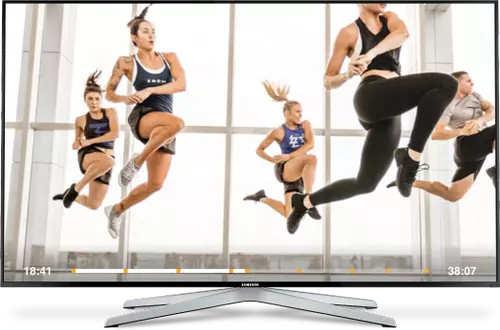
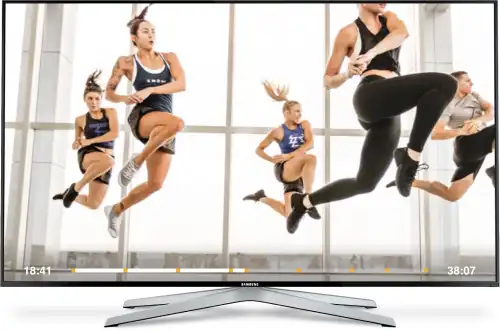
feat: update images les-mills

diff --git a/case-study/les-mills.html b/case-study/les-mills.html
@@ -147,10 +147,9 @@
       </div>
       <div data-w-id="2c214185-edae-2555-cc68-1a40fbe55c68" class="feature-2-row w-row"> 
           <picture class="feature-2-left-column w-col w-col-6">
-            <source media="(max-width: 479px)" width="262px" height="173px" srcset="../images/case-study/les-mills/webp/les-mills-on-your-time-mobile.webp" type="image/webp">
+            <source media="(max-width: 479px)" width="250px" height="173px" srcset="../images/case-study/les-mills/webp/les-mills-on-your-time-mobile.webp 1x, ../images/case-study/les-mills/webp/les-mills-on-your-time-mobile.webp 2x" type="image/webp">
             <source srcset="../images/case-study/les-mills/webp/les-mills-on-your-time.webp" type="image/webp">
-            <source srcset="../images/case-study/les-mills/les-mills-on-your-time-mobile.jpeg" type="image/jpeg">
-            <img loading="lazy" src="../images/case-study/les-mills/les-mills-on-your-time.jpg" alt="Image of Les Mills On Demand streaming video workout. 4 athletes exercising." srcset="../images/case-study/les-mills/les-mills-on-your-time-p-1080.jpeg 1080w, ../images/case-study/les-mills/les-mills-on-your-time.jpg 1574w" sizes="(max-width: 479px) 72vw, (max-width: 767px) 75vw, (max-width: 991px) 71vw, 75vw" class="feature-2-image les-mills-feature-2-image">
+            <img loading="lazy" src="../images/case-study/les-mills/les-mills-on-your-time.jpg" alt="Image of Les Mills On Demand streaming video workout. 4 athletes exercising." srcset="../images/case-study/les-mills/les-mills-on-your-time-p-500.jpeg 500w, ../images/case-study/les-mills/les-mills-on-your-time-p-1080.jpeg 1080w, ../images/case-study/les-mills/les-mills-on-your-time.jpg 1574w" sizes="(max-width: 479px) 72vw, (max-width: 767px) 75vw, (max-width: 991px) 71vw, 75vw" class="feature-2-image les-mills-feature-2-image">
           </picture>
         <div class="feature-2-right-column les-mills-feature-2-right-column w-col w-col-6">
           <p class="case-study-paragraph-text feature-2-text les-mills-feature-2-text"><strong class="case-study-h3">Les Mills On Your Time <br></strong>Stream your favorite Cardio, Strength, or Flexibility Classes directly to your iPhone. Connect to Chromecast or Apple TV at work or at the gym.</p>
